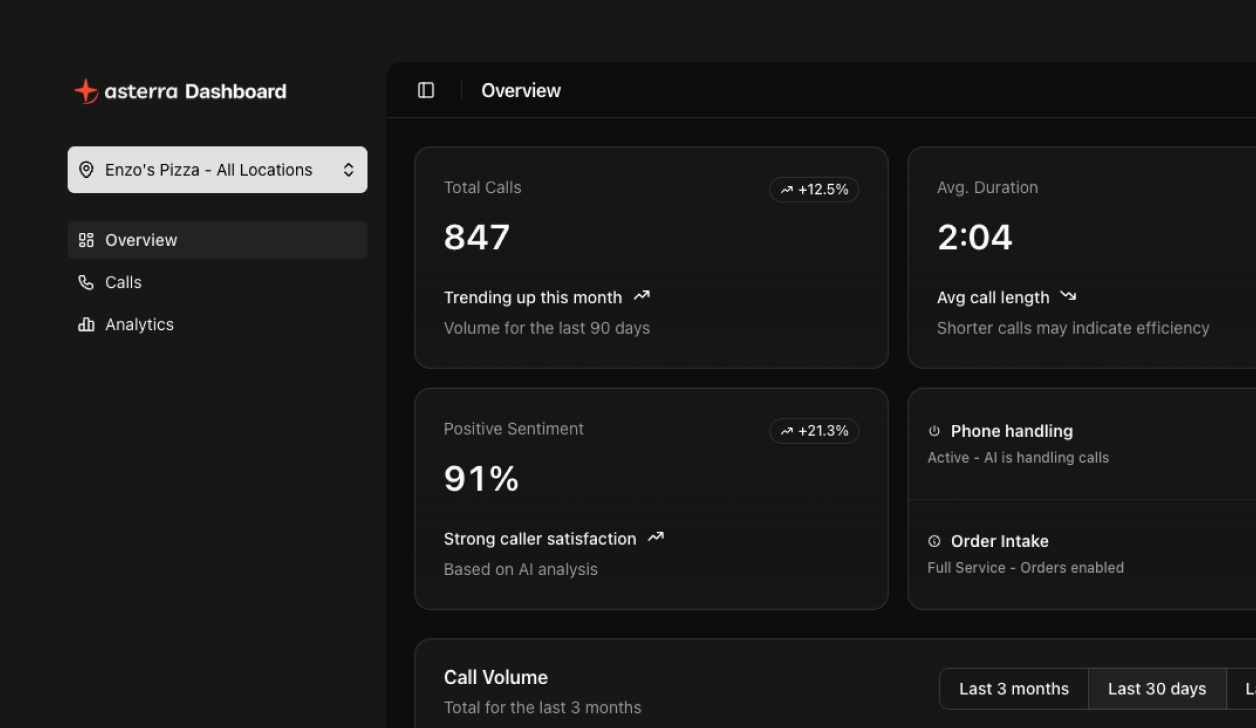
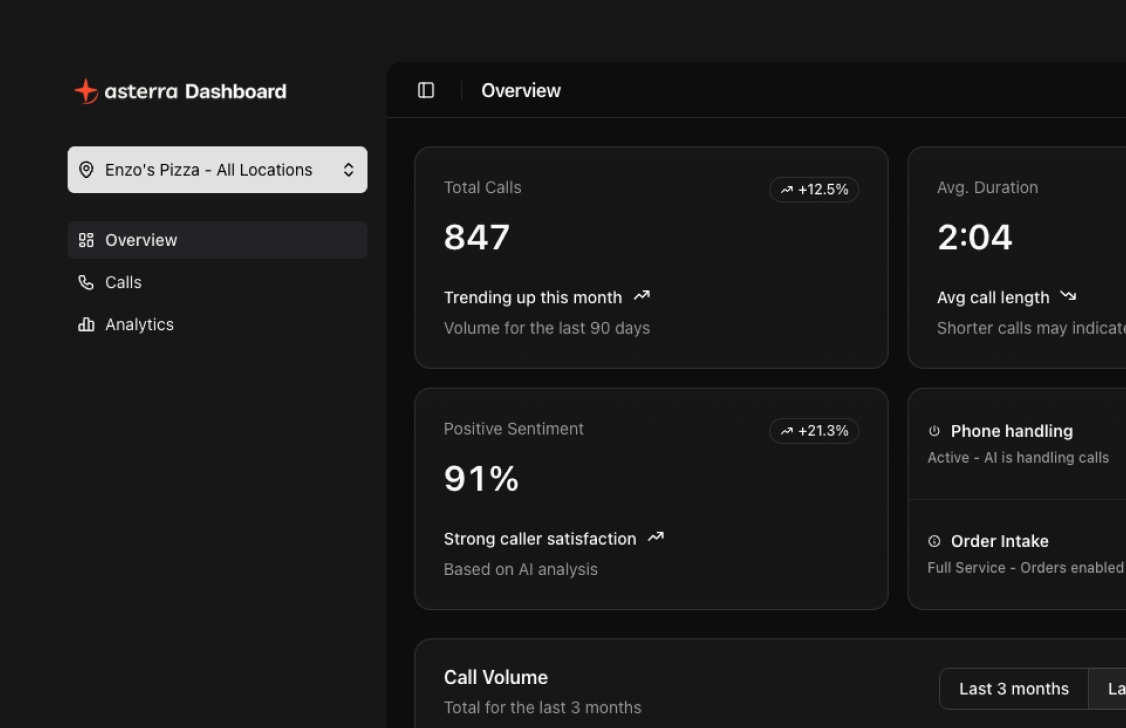
bento and scroll phone final

diff --git a/app/components/HeroSection.js b/app/components/HeroSection.js
@@ -58,15 +58,12 @@ export default function HeroSection() {
 
 			if (dest && section && dest.getBoundingClientRect().width > 0) {
 				const destRect = dest.getBoundingClientRect();
-				const sectionRect = section.getBoundingClientRect();
 
 				// Nudge slightly to the left (-48px) for perfect visual balance with the 3D perspective
 				endX = destRect.left + destRect.width / 2 - phoneWidth / 2 - 48;
 
-				// Calculate dynamic top by getting the element's position relative to its section
-				const finalDestTop = destRect.top - sectionRect.top;
-				endY =
-					finalDestTop + destRect.height / 2 - phoneHeight / 2 - 125;
+				// Use viewport-center so the phone always lands mid-screen on ANY resolution
+				endY = (vh - phoneHeight) / 2;
 			} else {
 				// Fallback layout when elements are unavailable
 				const maxW = Math.min(1280, vw);
@@ -80,9 +77,11 @@ export default function HeroSection() {
 
 			ctx = gsap.context(() => {
 				ScrollTrigger.create({
-					trigger: sectionRef.current,
-					start: 'bottom 80%',
-					end: 'bottom -20%',
+					// Trigger based on call-now-section so the animation completes
+					// when the section is centered — works on all screen sizes
+					trigger: section || sectionRef.current,
+					start: 'top bottom',
+					end: 'center center',
 					scrub: 2,
 					onEnter: () => {
 						// Snapshot current viewport position and switch to fixed

diff --git a/app/components/HowItWorksSection.js b/app/components/HowItWorksSection.js
@@ -9,9 +9,9 @@ const CARDS = [
 	},
 	{
 		image: '/card2.png',
-		title: 'Orders placed directly into your POS',
+		title: 'Orders, reservations, and bookings placed directly into your system',
 		description:
-			'Confirmed and pushed to your system the moment the call ends. No re-entry, no mistakes.',
+			'The moment a call ends, everything is already in your POS or booking platform. Orders confirmed, tables reserved, no staff involvement.',
 	},
 	{
 		image: '/card3.png',
@@ -76,7 +76,7 @@ function BentoCard({ image, title, description, className }) {
 export default function HowItWorksSection() {
 	return (
 		<section id="how-it-works" className="relative py-24 sm:py-32">
-			<div className="w-full max-w-7xl mx-auto px-2">
+			<div className="w-full max-w-6xl mx-auto px-2">
 				{/* Heading */}
 				<div className="text-center mb-12 sm:mb-16">
 					<h2
